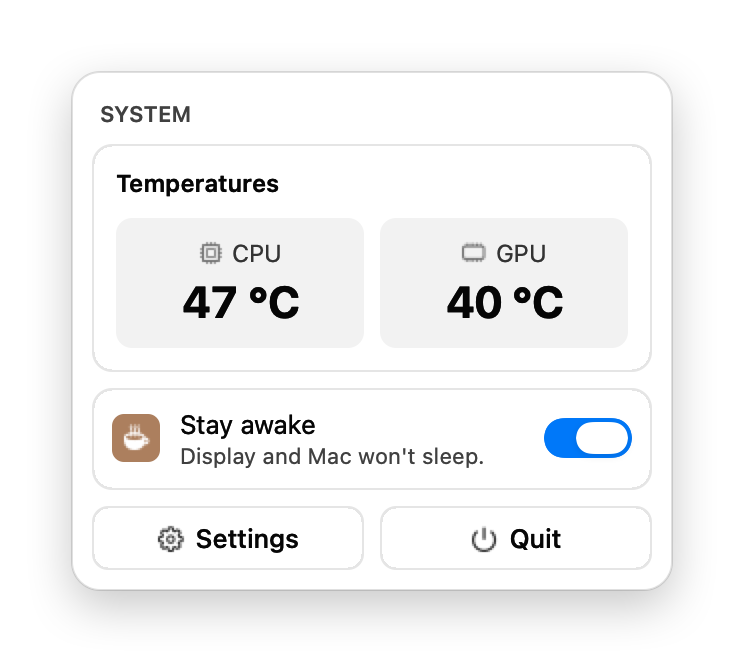
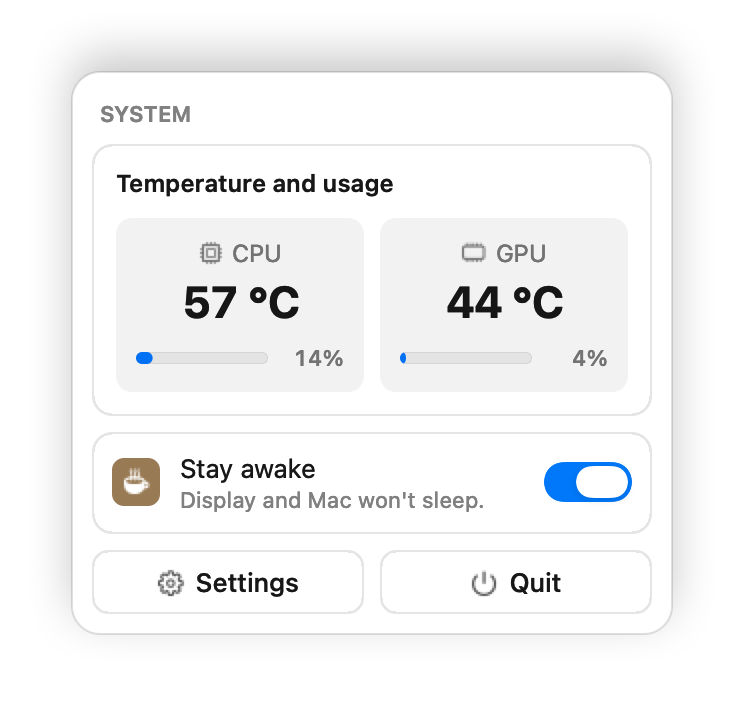
Menu bar panel: CPU and GPU usage under the temperatures

diff --git a/Sources/Tray.swift b/Sources/Tray.swift
@@ -53,6 +53,9 @@ final class Tray: NSObject {
     private let item = NSStatusBar.system.statusItem(withLength: NSStatusItem.squareLength)
     private let cpu = label("–", size: 22, weight: .bold)
     private let gpu = label("–", size: 22, weight: .bold)
+    private let cpuLoad = (bar: NSProgressIndicator(), text: label("–", size: 11, color: .secondaryLabelColor))
+    private let gpuLoad = (bar: NSProgressIndicator(), text: label("–", size: 11, color: .secondaryLabelColor))
+    private let reads = DispatchQueue(label: "floe.stats", qos: .userInitiated)
     private let awake = NSSwitch()
     private let permissionText = note("")
     private var permissionCard: NSView!
@@ -112,8 +115,8 @@ final class Tray: NSObject {
         panel.orderFrontRegardless()
         panel.makeKey()
         item.button?.highlight(true)
-        readTemps()
-        timer = Timer(timeInterval: 2, repeats: true) { [weak self] _ in self?.readTemps() }
+        readStats()
+        timer = Timer(timeInterval: 2, repeats: true) { [weak self] _ in self?.readStats() }
         RunLoop.main.add(timer!, forMode: .common)
         monitors = [
             NSEvent.addGlobalMonitorForEvents(matching: [.leftMouseDown, .rightMouseDown]) { [weak self] _ in
@@ -154,28 +157,41 @@ final class Tray: NSObject {
         panel.invalidateShadow()
     }
 
-    // Off the main thread so the panel never waits on the SMC.
-    private func readTemps() {
-        DispatchQueue.global(qos: .userInitiated).async {
+    // Off the main thread so the panel never waits on the SMC; one serial queue so reads never overlap.
+    private func readStats() {
+        reads.async {
             let fmt = { (v: Double?) in v.map { String(format: "%.0f °C", $0) } ?? "–" }
-            let c = fmt(Temps.cpu), g = fmt(Temps.gpu)
+            let c = fmt(Temps.cpu), g = fmt(Temps.gpu), cl = Usage.cpu, gl = Usage.gpu
             DispatchQueue.main.async {
                 self.cpu.stringValue = c
                 self.gpu.stringValue = g
+                for (load, v) in [(self.cpuLoad, cl), (self.gpuLoad, gl)] {
+                    load.bar.doubleValue = v ?? 0
+                    load.text.stringValue = v.map { String(format: "%.0f%%", $0) } ?? "–"
+                }
             }
         }
     }
 
     private func makeContent() -> NSView {
-        func tile(_ icon: String, _ name: String, _ value: NSTextField) -> NSView {
+        func tile(_ icon: String, _ name: String, _ value: NSTextField, _ load: (bar: NSProgressIndicator, text: NSTextField)) -> NSView {
             let head = stack([symbol(icon, size: 11), label(name, size: 12, color: .secondaryLabelColor)], vertical: false, spacing: 4)
             value.font = .monospacedDigitSystemFont(ofSize: 22, weight: .bold)
-            return Card(stack([head, value], spacing: 4, align: .centerX), inset: 10,
-                        fill: NSColor.labelColor.withAlphaComponent(0.05), radius: 8, border: false)
+            load.bar.isIndeterminate = false
+            load.bar.controlSize = .small
+            load.bar.maxValue = 100
+            load.text.font = .monospacedDigitSystemFont(ofSize: 11, weight: .medium)
+            load.text.alignment = .right
+            load.text.widthAnchor.constraint(equalToConstant: 32).isActive = true
+            let usage = stack([load.bar, load.text], vertical: false, spacing: 6)
+            let body = stack([head, value, usage], spacing: 4, align: .centerX)
+            body.setCustomSpacing(8, after: value)
+            usage.widthAnchor.constraint(equalTo: body.widthAnchor).isActive = true
+            return Card(body, inset: 10, fill: NSColor.labelColor.withAlphaComponent(0.05), radius: 8, border: false)
         }
-        let tiles = stack([tile("cpu", "CPU", cpu), tile("memorychip", "GPU", gpu)], vertical: false, spacing: 8)
+        let tiles = stack([tile("cpu", "CPU", cpu, cpuLoad), tile("memorychip", "GPU", gpu, gpuLoad)], vertical: false, spacing: 8)
         tiles.distribution = .fillEqually
-        let temps = stack([label("Temperatures", size: 12, weight: .semibold), tiles], spacing: 10)
+        let temps = stack([label("Temperature and usage", size: 12, weight: .semibold), tiles], spacing: 10)
         stretch(temps)
 
         awake.target = self

diff --git a/Sources/Temps.swift b/Sources/Temps.swift
@@ -1,3 +1,4 @@
+import Foundation
 import IOKit
 
 // CPU/GPU temperatures from the SMC. Apple Silicon names its sensors Tp*/Te* (CPU cores) and Tg* (GPU).
@@ -76,4 +77,51 @@ enum Temps {
     }
 
     private static func fourcc(_ s: String) -> UInt32 { s.utf8.reduce(0) { $0 << 8 | UInt32($1) } }
+}
+
+// CPU and GPU load in percent. Each read costs tens of microseconds, next to the SMC's ~13 ms.
+enum Usage {
+    private static var last: (busy: UInt64, total: UInt64, at: UInt64)?
+
+    // Busy share of all cores since the previous read. A missing or stale sample is retaken over 0.3 s.
+    static var cpu: Double? {
+        if last == nil || DispatchTime.now().uptimeNanoseconds - last!.at > 5_000_000_000 {
+            last = ticks()
+            usleep(300_000)
+        }
+        let prev = last!, now = ticks()
+        last = now
+        guard now.total > prev.total, now.busy >= prev.busy else { return nil } // counters wrapped
+        return Double(now.busy - prev.busy) / Double(now.total - prev.total) * 100
+    }
+
+    // The GPU driver's own figure, the one Activity Monitor shows.
+    static var gpu: Double? {
+        var it: io_iterator_t = 0
+        guard IOServiceGetMatchingServices(kIOMainPortDefault, IOServiceMatching("IOAccelerator"), &it) == KERN_SUCCESS else { return nil }
+        defer { IOObjectRelease(it) }
+        var result: Double?
+        while case let entry = IOIteratorNext(it), entry != 0 {
+            let stats = IORegistryEntryCreateCFProperty(entry, "PerformanceStatistics" as CFString, kCFAllocatorDefault, 0)?
+                .takeRetainedValue() as? [String: Any]
+            if let v = stats?["Device Utilization %"] as? Int { result = max(result ?? 0, Double(v)) }
+            IOObjectRelease(entry)
+        }
+        return result
+    }
+
+    private static func ticks() -> (busy: UInt64, total: UInt64, at: UInt64) {
+        var info: processor_info_array_t?
+        var count: mach_msg_type_number_t = 0, cpus: natural_t = 0
+        guard host_processor_info(mach_host_self(), PROCESSOR_CPU_LOAD_INFO, &cpus, &info, &count) == KERN_SUCCESS,
+              let info else { return (0, 0, DispatchTime.now().uptimeNanoseconds) }
+        defer { vm_deallocate(mach_task_self_, vm_address_t(bitPattern: info), vm_size_t(count) * vm_size_t(MemoryLayout<integer_t>.stride)) }
+        var busy: UInt64 = 0, idle: UInt64 = 0
+        for c in 0..<Int(cpus) {
+            let t = { (s: Int32) in UInt64(UInt32(bitPattern: info[c * Int(CPU_STATE_MAX) + Int(s)])) }
+            busy += t(CPU_STATE_USER) + t(CPU_STATE_SYSTEM) + t(CPU_STATE_NICE)
+            idle += t(CPU_STATE_IDLE)
+        }
+        return (busy, busy + idle, DispatchTime.now().uptimeNanoseconds)
+    }
 }

diff --git a/README.md b/README.md
@@ -6,7 +6,7 @@
 
 <p align="center">
   <b>A tiny macOS menu bar app that does six things, and does them fast.</b><br>
-  ⌘Tab with previews · quit on close · green-button maximize · mouse scroll fix · stay awake · CPU/GPU temps
+  ⌘Tab with previews · quit on close · green-button maximize · mouse scroll fix · stay awake · CPU/GPU temps and usage
 </p>
 
 <p align="center">
@@ -30,10 +30,10 @@ All-in-one Mac utilities keep growing until the few features you rely on get slo
 - **Maximize windows.** The green button fills the screen instead of opening a new full-screen Space. Click again to restore, or ⌥-click for real full screen.
 - **Invert mouse scrolling.** Flips wheel mice (hello, Logitech) while the trackpad keeps natural scrolling.
 - **Stay awake.** Keeps the display and the Mac awake, one switch in the menu bar.
-- **CPU and GPU temperatures** in the menu bar panel, read straight from the SMC.
+- **CPU and GPU temperature and usage** in the menu bar panel. Temperatures come straight from the SMC, usage from the kernel and the GPU driver.
 
 <p align="center">
-  <img src="docs/menu.png" width="320" alt="Menu bar panel with CPU and GPU temperatures, Stay awake, Settings and Quit">
+  <img src="docs/menu.png" width="320" alt="Menu bar panel with CPU and GPU temperature and usage, Stay awake, Settings and Quit">
   &nbsp;&nbsp;
   <img src="docs/settings.png" width="400" alt="Settings window with permissions and feature switches">
 </p>
@@ -51,8 +51,8 @@ All-in-one Mac utilities keep growing until the few features you rely on get slo
 
 What keeps it light and quick:
 
-- **No dependencies, nothing bundled:** about 1,400 lines of Swift compiled into one binary with `swiftc`.
-- **No background work.** Temperatures are only read while the panel is open, and window previews are only captured for the app you land on in ⌘Tab, then released. The only timer runs while Floe waits for you to grant a permission.
+- **No dependencies, nothing bundled:** about 1,500 lines of Swift compiled into one binary with `swiftc`.
+- **No background work.** Temperatures and usage are only read while the panel is open, and window previews are only captured for the app you land on in ⌘Tab, then released. The only timer runs while Floe waits for you to grant a permission.
 - **Input never waits on the UI.** Keyboard and scroll handling run on their own thread, so a busy app or a slow window capture can't make ⌘Tab or scrolling stutter. If macOS ever pauses the event tap, Floe turns it back on immediately.
 - **A hung app can't freeze Floe.** Every Accessibility call has a 250 ms timeout.
 - **The menu bar panel is reliable:** it opens on mouse-down and closes only on an outside click, Esc or the icon, never on its own.
